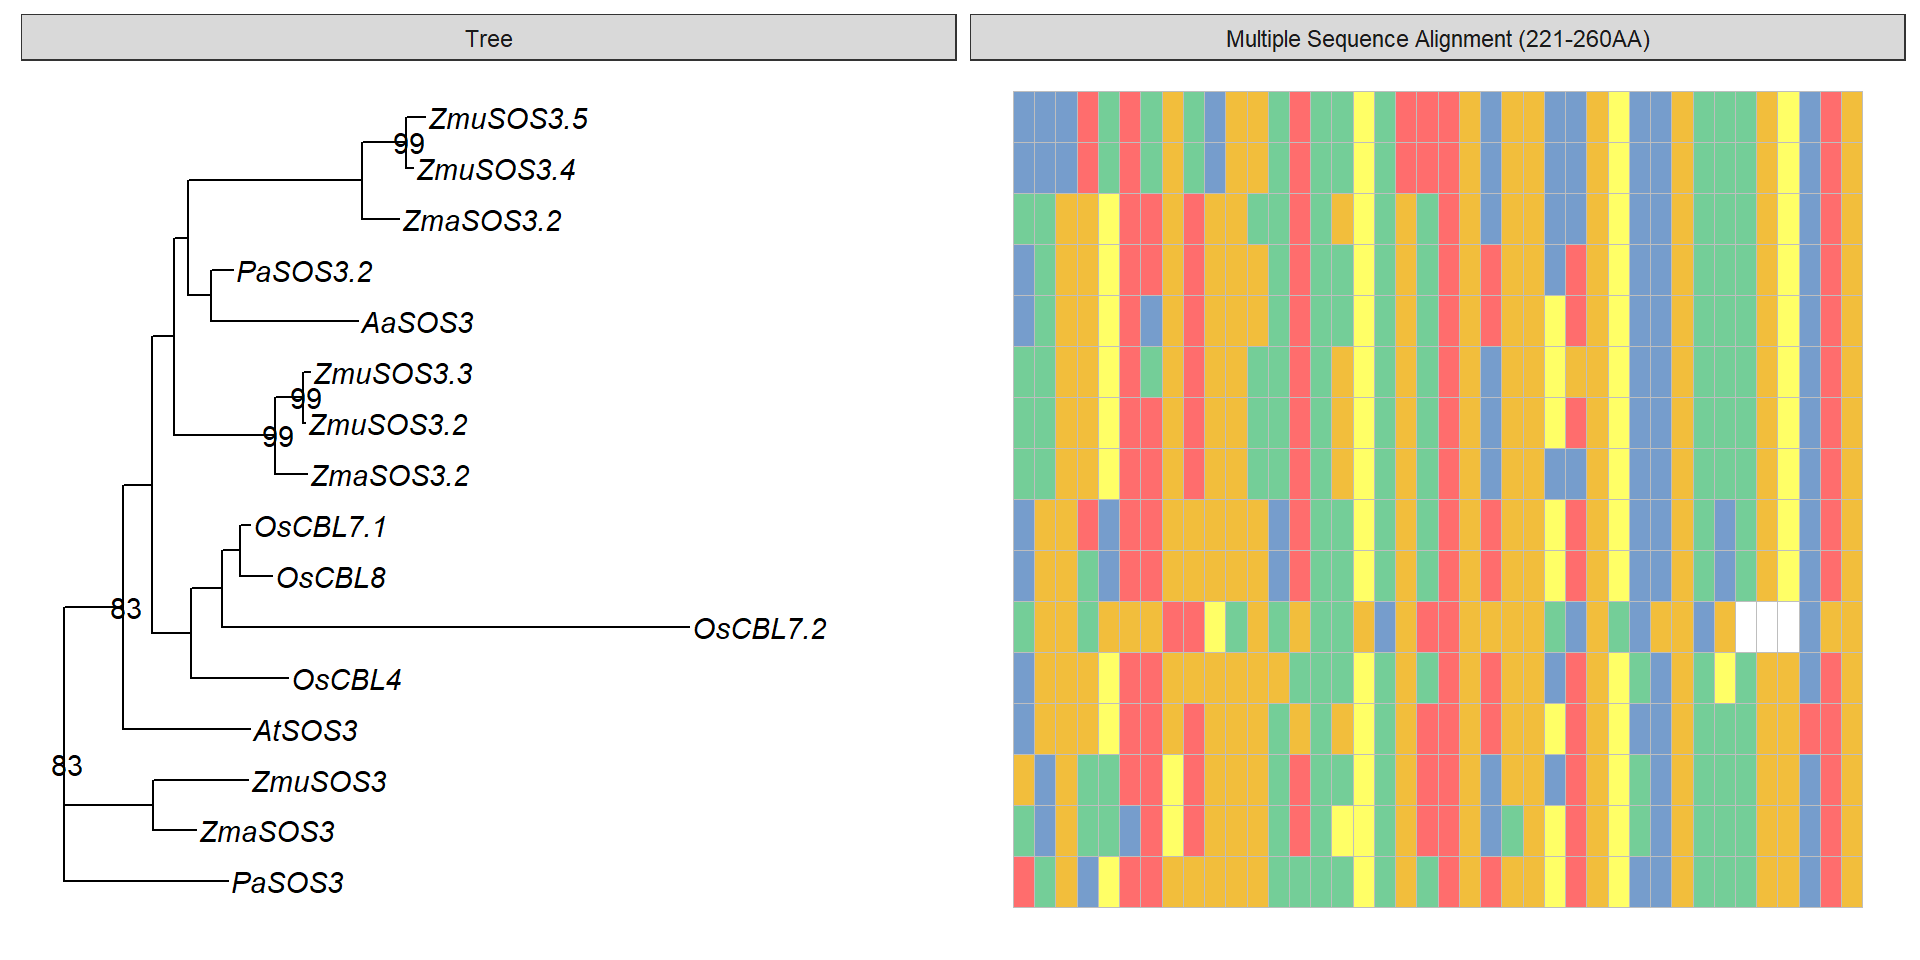
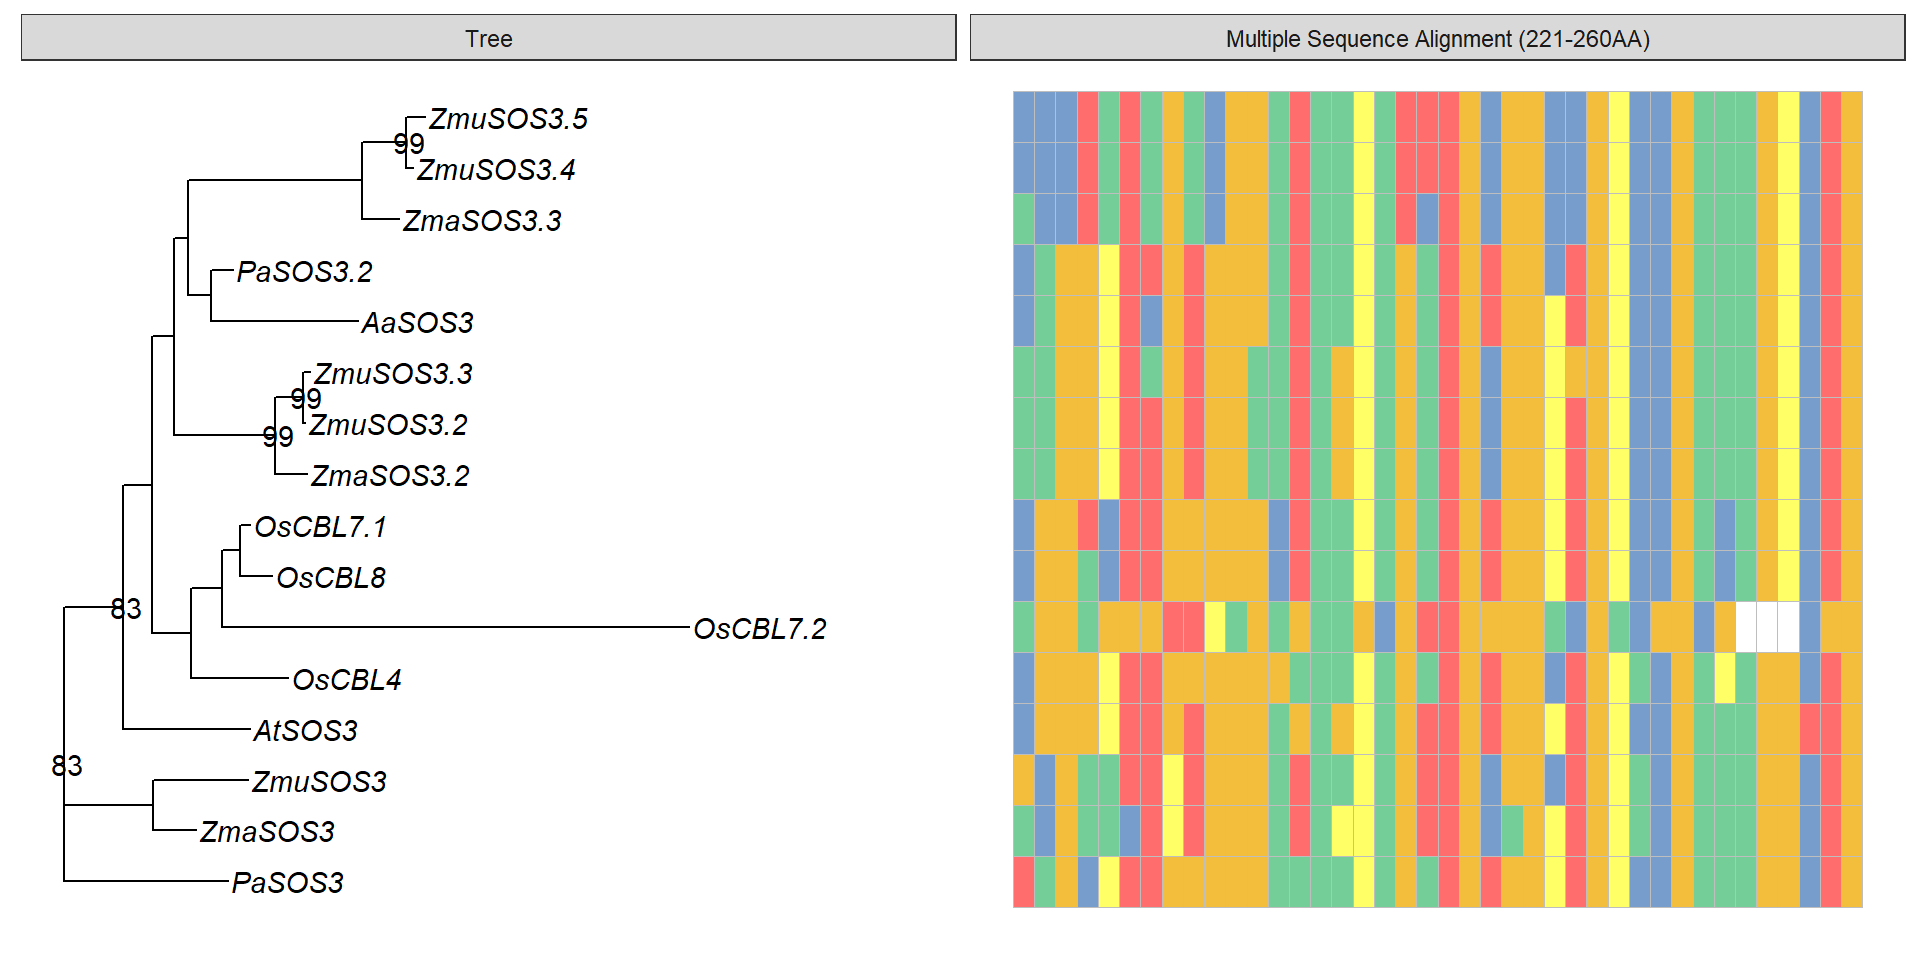
Build site.

Changed region(s): [[0.5312, 0.1875, 0.75, 0.25], [0.7812, 0.4688, 0.8438, 0.5312]]

diff --git a/docs/MSA.html b/docs/MSA.html
@@ -476,16 +476,16 @@ This reproducible <a href="http://rmarkdown.rstudio.com">R Markdown</a> analysis
 <div class="panel panel-default">
 <div class="panel-heading">
 <p class="panel-title">
-<a data-toggle="collapse" data-parent="#workflowr-checks" href="#strongRepositoryversionstrongahrefhttpsgithubcomphilippbayerAmphibolisPosidoniaComparisontree76a65cd561c5fc2fbf7ca549a5a68b86243be3cctargetblank76a65cda"> <span class="glyphicon glyphicon-ok text-success" aria-hidden="true"></span> <strong>Repository version:</strong> <a href="https://github.com/philippbayer/Amphibolis_Posidonia_Comparison/tree/76a65cd561c5fc2fbf7ca549a5a68b86243be3cc" target="_blank">76a65cd</a> </a>
+<a data-toggle="collapse" data-parent="#workflowr-checks" href="#strongRepositoryversionstrongahrefhttpsgithubcomphilippbayerAmphibolisPosidoniaComparisontreee9128f4b398d11ba3e7f9e73501d4c00991a4e43targetblanke9128f4a"> <span class="glyphicon glyphicon-ok text-success" aria-hidden="true"></span> <strong>Repository version:</strong> <a href="https://github.com/philippbayer/Amphibolis_Posidonia_Comparison/tree/e9128f4b398d11ba3e7f9e73501d4c00991a4e43" target="_blank">e9128f4</a> </a>
 </p>
 </div>
[2 lines of base64/hex data omitted]
 <div class="panel-body">
 <p>
 Great! You are using Git for version control. Tracking code development and connecting the code version to the results is critical for reproducibility.
 </p>
 <p>
-The results in this page were generated with repository version <a href="https://github.com/philippbayer/Amphibolis_Posidonia_Comparison/tree/76a65cd561c5fc2fbf7ca549a5a68b86243be3cc" target="_blank">76a65cd</a>. See the <em>Past versions</em> tab to see a history of the changes made to the R Markdown and HTML files.
+The results in this page were generated with repository version <a href="https://github.com/philippbayer/Amphibolis_Posidonia_Comparison/tree/e9128f4b398d11ba3e7f9e73501d4c00991a4e43" target="_blank">e9128f4</a>. See the <em>Past versions</em> tab to see a history of the changes made to the R Markdown and HTML files.
 </p>
 <p>
 Note that you need to be careful to ensure that all relevant files for the analysis have been committed to Git prior to generating the results (you can use <code>wflow_publish</code> or <code>wflow_git_commit</code>). workflowr only checks the R Markdown file, but you know if there are other scripts or data files that it depends on. Below is the status of the Git repository when the results were generated:
@@ -542,6 +542,40 @@ Message
 </tr>
 </thead>
 <tbody>
+<tr>
+<td>
+Rmd
+</td>
+<td>
+<a href="https://github.com/philippbayer/Amphibolis_Posidonia_Comparison/blob/e9128f4b398d11ba3e7f9e73501d4c00991a4e43/analysis/MSA.Rmd" target="_blank">e9128f4</a>
+</td>
+<td>
+Philipp Bayer
+</td>
+<td>
+2022-03-11
+</td>
+<td>
+fix MSA
+</td>
+</tr>
+<tr>
+<td>
+html
+</td>
+<td>
+<a href="https://rawcdn.githack.com/philippbayer/Amphibolis_Posidonia_Comparison/56d032ac636f2ebf920a54a697f24d8f3237ccc3/docs/MSA.html" target="_blank">56d032a</a>
+</td>
+<td>
+Philipp Bayer
+</td>
+<td>
+2022-03-11
+</td>
+<td>
+Build site.
+</td>
+</tr>
 <tr>
 <td>
 Rmd
@@ -685,7 +719,7 @@ tree &lt;- bionj(d)
 p &lt;- ggtree(tree) + geom_tiplab()
 ggtree(tree) + geom_tiplab()</code></pre>
 <p><img src="figure/MSA.Rmd/unnamed-chunk-2-1.png" width="672" style="display: block; margin: auto;" /></p>
-<pre class="r"><code>data = tidy_msa(&#39;data/OG0000189.RiceAraSeagrasses.aln.fasta&#39;, 221, 260)
+<pre class="r"><code>data &lt;- tidy_msa(&#39;data/OG0000189.RiceAraSeagrasses.aln.fasta&#39;, 221, 260)
 p + geom_facet(geom = geom_msa, data = data,  panel = &#39;Multiple Sequence Alignment (221-260AA)&#39;,
                font = NULL, color = &quot;Chemistry_AA&quot;) +
     xlim_tree(1)</code></pre>
@@ -792,18 +826,21 @@ p3</code></pre>
 # [9] &quot;12Z.muelle&quot; &quot;10Z.muelle&quot; &quot;14Z.marina&quot; &quot;9Z.mueller&quot; &quot;11Z.muelle&quot; &quot;1A.amphibo&quot; &quot;6P.austral&quot; &quot;2O.sativa&quot;
 #new_names  &lt;- c( &#39;OsCBL8&#39;, &#39;OsCBL7.1&#39;, &#39;OsCBL4&#39;, &#39;AtSOS3&#39;, &#39;ZmuSOS3&#39;, &#39;ZmaSOS3&#39;, &#39;PaSOS3&#39;, &#39;ZmaSOS3.2&#39;,
 #                 &#39;ZmuSOS3.2&#39;, &#39;ZmuSOS3.3&#39;, &#39;ZmaSOS3.3&#39;, &#39;ZmuSOS3.2&#39;, &#39;ZmuSOS3.4&#39;, &#39;AaSOS3&#39;, &#39;PaSOS3.2&#39;, &#39;OsCBL7.2&#39;)
-new_names  &lt;- c(&#39;ZmuSOS3.2&#39;, &#39;ZmuSOS3.3&#39;, &#39;ZmaSOS3.2&#39;, &#39;ZmuSOS3.4&#39;, &#39;ZmuSOS3.5&#39;, &#39;ZmaSOS3.2&#39;,&#39;AaSOS3&#39;,  
+new_names  &lt;- c(&#39;ZmuSOS3.2&#39;, &#39;ZmuSOS3.3&#39;, &#39;ZmaSOS3.2&#39;, &#39;ZmuSOS3.4&#39;, &#39;ZmuSOS3.5&#39;, &#39;ZmaSOS3.3&#39;,&#39;AaSOS3&#39;,  
                 &#39;PaSOS3.2&#39;, &#39;OsCBL7.2&#39;, &#39;OsCBL8&#39;, &#39;OsCBL7.1&#39;, &#39;OsCBL4&#39;, &#39;AtSOS3&#39;, &#39;ZmaSOS3&#39;, &#39;ZmuSOS3&#39;, &#39;PaSOS3&#39;)
 rename_df &lt;- data.frame(old = old_names, new = new_names)
 
 
 tree3 &lt;- rename_taxa(tree3, rename_df, old, new)
 p3 &lt;- ggtree(tree3) + geom_tiplab(fontface=&#39;italic&#39;)
-p3 &lt;- p3 + geom_nodelab(aes(subset=label&gt;80))</code></pre>
+p3 &lt;- p3 + geom_nodelab(aes(subset=label&gt;80))
+p3</code></pre>
+<p><img src="figure/MSA.Rmd/unnamed-chunk-11-1.png" width="672" style="display: block; margin: auto;" /></p>
 <pre class="r"><code>replace_vector &lt;- new_names
 names(replace_vector) &lt;- old_names
 
-data3 &lt;- data2 %&gt;% mutate(name = str_replace(name, &#39; &#39;, &#39;_&#39;),
+data &lt;- tidy_msa(&#39;data/OG0000189.RiceAraSeagrasses.aln.fasta&#39;, 221, 260)
+data3 &lt;- data %&gt;% mutate(name = str_replace(name, &#39; &#39;, &#39;_&#39;),
                           name = str_replace_all(name, replace_vector))
 p3 + geom_facet(geom = geom_msa, data = data3,  panel = &#39;Multiple Sequence Alignment (221-260AA)&#39;,
                font = NULL, color = &quot;Chemistry_AA&quot;) +
